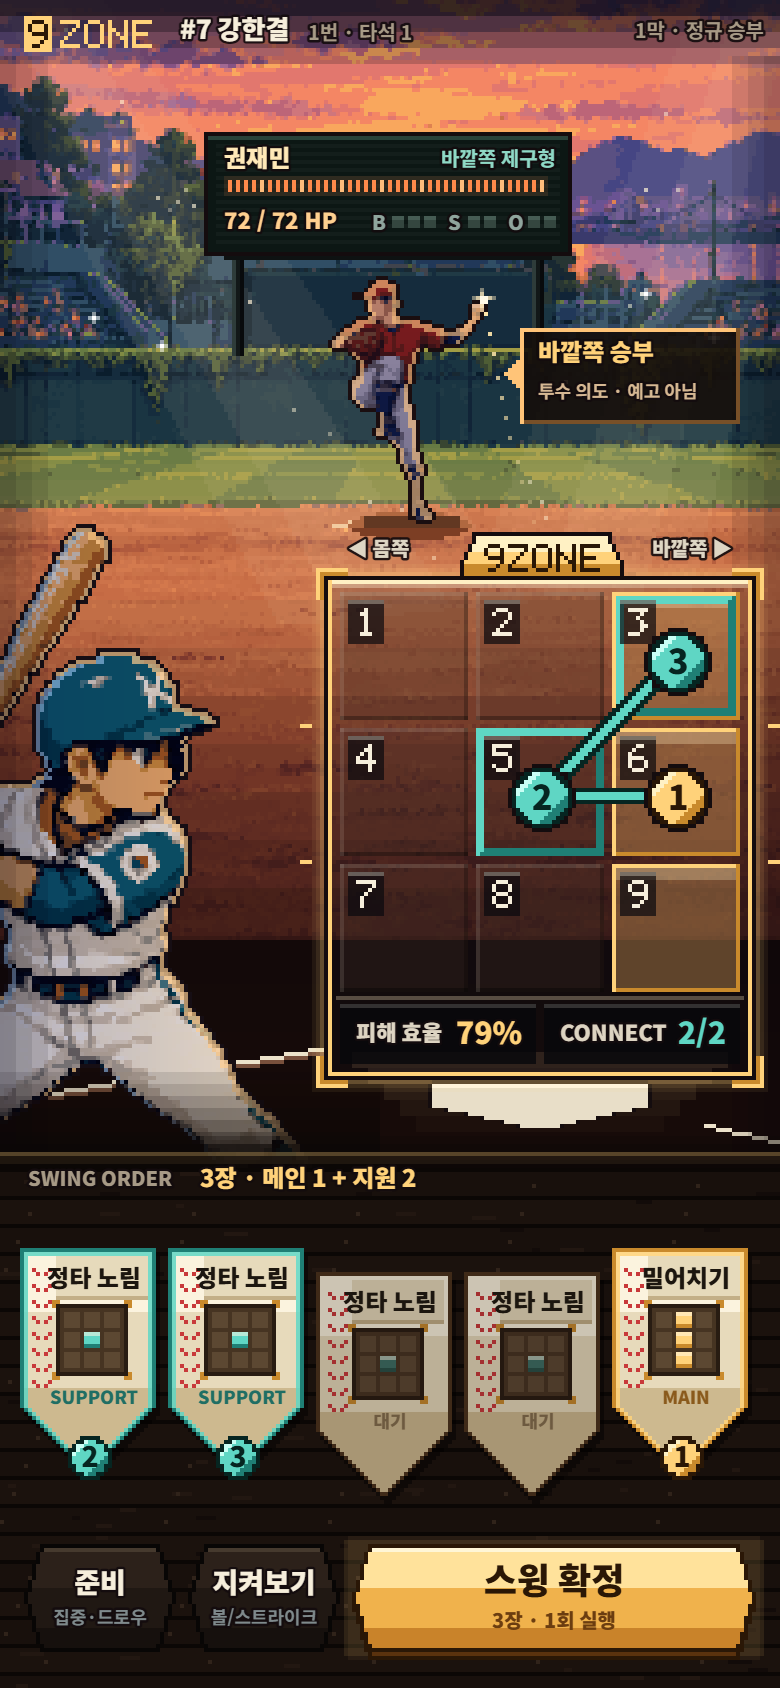
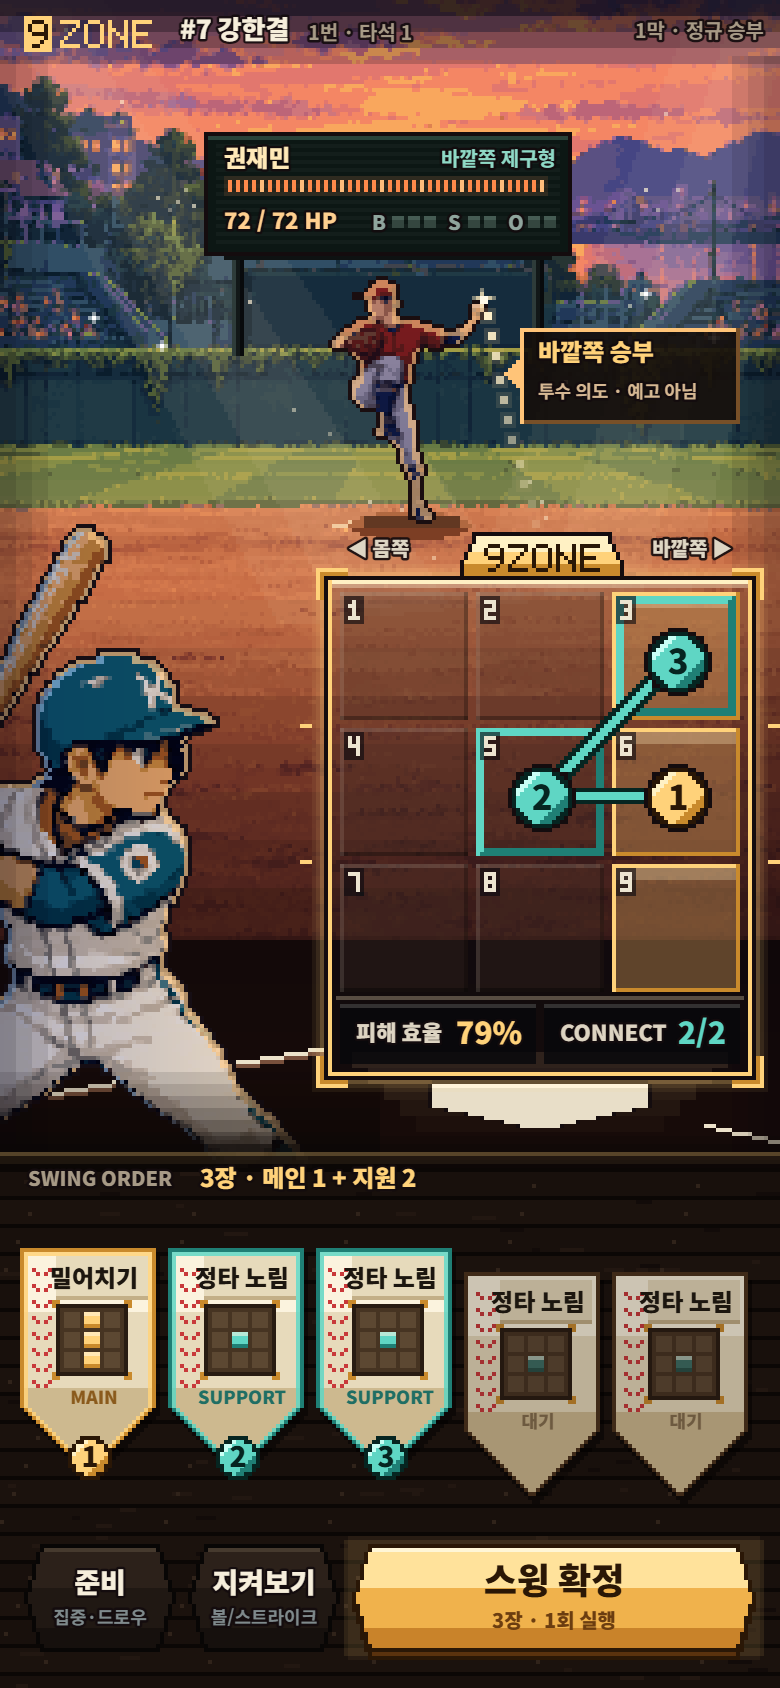
design(v12): LOOP 8 — second review: order, pitch line, quieter numerals
- the hand reads in swing order: stacked cards 1-2-3 from the left, waiting
  cards after (display order only; the hand array is not a mechanic)
- the pitch path is a brighter 2px seam of light with a halo from the
  release hand toward the zone, still gone before it arrives (C5)
- cell coordinates shrink to 3x5 corner glyphs so the lit coverage leads;
  landscape and desktop zones get denser glass so the stands stop showing
  through the cells
- landscape: one continuous floor shade and edge falloff, a shorter swing
  button with plate thickness; desktop batter gets a stronger contact shadow

Second independent review before this loop: 6 pass / 5 weak / 1 fail (up
from 3 / 6 / 3). The remaining fail, actor vs stadium pixel density, needs
re-authored actor art. All three captures read directly.

diff --git a/docs/design/v12/gm/parts.js b/docs/design/v12/gm/parts.js
@@ -56,7 +56,8 @@ P.pitcher=({fx,fy,h,path})=>{const w=Math.round(443*h/680),s=h/62;
   const x=fx-Math.round(w/2),y=fy-h;K.blit(img,x,y);
   const bx=x+Math.round(38*s),by=y+Math.round(5*s);rect(bx,by,2,2,[255,250,232]);
   for(const [dx,dy,a] of [[-1,0,.8],[2,0,.8],[0,-1,.8],[0,2,.8],[-2,0,.45],[3,0,.45],[0,-2,.45],[0,3,.45]])px(bx+dx,by+dy,[255,236,190],a);
-  if(path){const [tx,ty]=path;for(let i=0;i<24;i+=2){const t=i/23;px(Math.round(bx+1+(tx-bx)*t+t*t*6),Math.round(by+4+(ty-by)*t),[255,230,170],1-t*.9)}}
+  if(path){const [tx,ty]=path;for(let i=0;i<24;i+=2){const t=i/23,qx=Math.round(bx+1+(tx-bx)*t+t*t*6),qy=Math.round(by+4+(ty-by)*t),a=1-t*.95;
+    K.rect(qx-1,qy-1,4,4,[255,214,150],a*.18);K.rect(qx,qy,2,2,[255,240,200],a)}}                      // seams of light, gone before the zone (C5)
   return {x,y,w,h,ball:[bx,by]};
 };
 P.batter=({x,y,h})=>{const w=Math.round(509*h/730);
@@ -72,11 +73,11 @@ P.intent=(I,{pointer='left'}={})=>{
 };
 
 // 4. 9ZONE — the signature object. cell size sets the whole device.
-P.zone=({x,y,cell=32,gap=2,plate=true})=>{const S=P.S,g=3*cell+2*gap,Z={x,y,w:g+6,h:g+6+18},G={x:x+3,y:y+3};
+P.zone=({x,y,cell=32,gap=2,plate=true,glass=1})=>{const S=P.S,g=3*cell+2*gap,Z={x,y,w:g+6,h:g+6+18},G={x:x+3,y:y+3};
   if(plate){for(let j=0;j<20;j+=4)K.wash(Z.x+6+j,Z.y+Z.h+j-6,Z.w-12-2*j,4,[255,214,150],.14*(1-j/20));
     const pw=Math.round(Z.w*.51),x0=Z.x+Math.round((Z.w-pw)/2),y0=Z.y+Z.h+2;rect(x0,y0-1,pw,1,C.ink);
     for(let j=0;j<11;j++){const k=j<5?0:Math.round((j-5)*pw/12.3);rect(x0+k,y0+j,pw-2*k,1,j===0?[255,250,236]:[232,222,200]);px(x0+k-1,y0+j,C.ink);px(x0+pw-k,y0+j,C.ink)}}
-  rect(Z.x,Z.y,Z.w,Z.h,[12,20,34],.16);
+  rect(Z.x,Z.y,Z.w,Z.h,[12,20,34],.16*glass);
   for(let r=2;r<=4;r++){const a=[0,0,.34,.16,.07][r];K.wash(Z.x-r,Z.y-r,Z.w+2*r,1,C.gold,a);K.wash(Z.x-r,Z.y+Z.h+r-1,Z.w+2*r,1,C.gold,a);
     K.wash(Z.x-r,Z.y-r+1,1,Z.h+2*r-2,C.gold,a);K.wash(Z.x+Z.w+r-1,Z.y-r+1,1,Z.h+2*r-2,C.gold,a)}
   rect(Z.x-1,Z.y-1,Z.w+2,1,C.ink);rect(Z.x-1,Z.y+Z.h,Z.w+2,1,C.ink);rect(Z.x-1,Z.y,1,Z.h,C.ink);rect(Z.x+Z.w,Z.y,1,Z.h,C.ink);
@@ -91,14 +92,14 @@ P.zone=({x,y,cell=32,gap=2,plate=true})=>{const S=P.S,g=3*cell+2*gap,Z={x,y,w:g+
   const main=new Set(S.coverage.main),sup=new Set(S.coverage.supports.flatMap(v=>v.cells));
   const cellXY=z=>[G.x+(z%3)*(cell+gap),G.y+Math.floor(z/3)*(cell+gap)],c=cell;
   for(let z=0;z<9;z++){const [cx,cy]=cellXY(z),sh=S.read[z].shade;
-    rect(cx,cy,c,c,[10,16,28],.2);
+    rect(cx,cy,c,c,[10,16,28],Math.min(.8,.2*glass));
     if(sh)K.wash(cx,cy,c,c,C.ember,[0,.07,.17,.29][sh]);                                  // read shade: level 0 = 3 shades
     rect(cx,cy,c,1,[246,238,219],.14);rect(cx,cy+c-1,c,1,[0,0,0],.3);rect(cx,cy,1,c,[246,238,219],.12);rect(cx+c-1,cy,1,c,[0,0,0],.25);
     if(main.has(z)){K.wash(cx,cy,c,c,C.gold,.2);K.wash(cx+1,cy+1,c-2,3,C.goldHi,.28);rect(cx,cy,c,1,C.gold);rect(cx,cy+c-1,c,1,C.goldLo);rect(cx,cy,1,c,C.gold);rect(cx+c-1,cy,1,c,C.goldLo)}
     if(sup.has(z)){const o=main.has(z)?1:0;for(const k of [o,o+1]){rect(cx+k,cy+k,c-2*k,1,C.teal);rect(cx+k,cy+c-1-k,c-2*k,1,C.tealLo);rect(cx+k,cy+k,1,c-2*k,C.teal);rect(cx+c-1-k,cy+k,1,c-2*k,C.tealLo)}}
-    rect(cx+2,cy+2,9,11,[8,8,14],.7);rect(cx+2,cy+2,9,1,[246,238,219],.35);glyphs(String(z+1),cx+4,cy+4,[246,238,219]);
+    rect(cx+1,cy+1,5,7,[8,8,14],.62);K.glyphs3(String(z+1),cx+2,cy+2,[236,228,208]);          // small coordinate glyph: coverage leads
   }
-  const nudge=c<30?2:0,cc=z=>{const [cx,cy]=cellXY(z);return [cx+Math.floor(c/2)+nudge,cy+Math.floor(c/2)+1+nudge]}; // clear the coordinate badge in small cells
+  const nudge=0,cc=z=>{const [cx,cy]=cellXY(z);return [cx+Math.floor(c/2)+nudge,cy+Math.floor(c/2)+1+nudge]}; // clear the coordinate badge in small cells
   for(const l of S.links){const [a,b]=cc(l.fromZone),[e,f]=cc(l.toZone);line(a,b,e,f,C.tealInk,4);line(a,b,e,f,l.connected?C.teal:[140,140,140],2)}
   for(const st of S.steps){const [tx,ty]=cc(st.aimZone);disc(tx,ty,8,[255,248,230],[255,248,230],[255,248,230],C.ink);
     if(st.main)disc(tx,ty,7,C.goldHi,C.gold,C.goldLo,C.goldInk);else disc(tx,ty,7,C.tealHi,C.teal,C.tealLo,C.tealInk)}
@@ -134,6 +135,8 @@ P.card=(h,x,y,{w=34,hh=52}={})=>{const st=P.stackOf[h.id];y-=st?6:0;
   text(st?(st.main?'MAIN':'SUPPORT'):'대기',x*2+w+3,y*2+70,{size:9,weight:900,color:st?(st.main?[138,90,28]:[31,110,100]):[109,90,64],align:'center',ring:false});
   if(st)text(String(st.order),cx*2+1,cy*2-7,{size:14,weight:900,color:st.main?C.goldInk:C.tealInk,align:'center',ring:false});
 };
+// the hand reads in swing order: stacked cards 1→2→3 from the left, waiting cards after (display only)
+P.handOrdered=()=>[...P.S.hand].sort((a,b)=>(P.stackOf[a.id]?.order||9)-(P.stackOf[b.id]?.order||9));
 P.handLabel=(x,y)=>{const S=P.S;text('SWING ORDER',x*2,y*2,{size:10,weight:800,color:C.dim});
   text(S.cardCount+'장 · 메인 1 + 지원 '+(S.cardCount-1),x*2+86,y*2-1,{size:12,weight:900,color:C.gold})};
 

diff --git a/docs/design/v12/gm/scene-landscape.js b/docs/design/v12/gm/scene-landscape.js
@@ -7,7 +7,7 @@ const S=await GM.setup(),K=PK,C=GM.C,{rect,text}=K;
 // 1. space — same stadium scale as portrait, wider crop
 GM.stadium({crop:[372,206,1300,600],w:422,h:195});
 for(let k=0;k<4;k++)K.wash(0,106+k*4,422,32-k*8,[255,196,140],.035);
-GM.shade(0,142,236,53,6,[24,11,9],.8);
+GM.shade(0,142,422,53,6,[24,11,9],.8);
 GM.shafts([[[[-14,-6],[24,-6],[150,150],[84,156]],.07],[[[-2,-6],[14,-6],[130,150],[100,152]],.075]]);
 GM.dust(18,(t,r)=>[Math.round(6+t*120+r*16),Math.round(t*140+6)]);
 GM.flashes([[28,76],[196,70],[60,82]]);
@@ -16,31 +16,32 @@ GM.flashes([[28,76],[196,70],[60,82]]);
 GM.board({x:106,y:22,w:90,h:29});
 GM.pitcher({fx:151,fy:133,h:62,path:[112,158]});
 GM.batter({x:-34,y:36,h:200});
-for(let k=0;k<6;k++)K.wash(0,165+k*5,236,5,[12,7,6],(k+1)/6*.85);
-GM.edges(14,181,236);
+for(let k=0;k<6;k++)K.wash(0,165+k*5,422,5,[12,7,6],(k+1)/6*.85);
+GM.edges(14,181,1000);
 GM.intent({x:176,y:92,w:55,h:24});
 
 // full bleed: no panel. The stadium runs edge to edge; a stepped scrim deepens toward the right
 // so the command side stays legible, and the hand docks on dirt that falls into shade.
-for(let k=0;k<26;k++)K.wash(214+k*8,0,8,195,[10,8,14],.05+k*.024);
-GM.shade(236,138,186,57,6,[16,9,8],.72);
+for(let k=0;k<30;k++)K.wash(190+k*8,0,8,195,[10,8,14],k*.022);
+
 
 // 4. 9ZONE — top-right, the plate falls away because the zone is now the command device
-GM.zone({x:246,y:26,cell:27,plate:false});
+GM.zone({x:246,y:26,cell:27,plate:false,glass:2.2});
 
 // actions stacked beside the zone
 const bx=346,dark=[[44,33,26],[32,24,19],[22,16,13]];
 K.hexButton(bx,24,70,22,dark,[8,6,5],[70,58,46]);K.hexButton(bx,50,70,22,dark,[8,6,5],[70,58,46]);
-K.wash(bx-2,79,74,58,C.gold,.10);K.wash(bx-1,78,72,60,C.gold,.06);
-K.hexButton(bx,80,70,56,[[255,226,155],[240,178,76],[201,131,42]],C.goldInk,[255,246,214]);
+K.wash(bx-2,79,74,46,C.gold,.10);K.wash(bx-1,78,72,48,C.gold,.06);
+K.hexButton(bx,82,70,44,[[120,70,20],[120,70,20],[90,50,14]],C.goldInk);
+K.hexButton(bx,80,70,44,[[255,226,155],[240,178,76],[201,131,42]],C.goldInk,[255,246,214]);
 text('준비',(bx+35)*2,24*2+8,{size:13,weight:900,align:'center'});text('집중·드로우',(bx+35)*2,24*2+26,{size:9,weight:700,color:[127,138,140],align:'center'});
 text('지켜보기',(bx+35)*2,50*2+8,{size:13,weight:900,align:'center'});text('볼/스트라이크',(bx+35)*2,50*2+26,{size:9,weight:700,color:[127,138,140],align:'center'});
-text('스윙',(bx+35)*2,80*2+22,{size:20,weight:900,color:C.goldInk,align:'center',ring:false});
-text('확정',(bx+35)*2,80*2+46,{size:20,weight:900,color:C.goldInk,align:'center',ring:false});
-text(S.cardCount+'장 · 1회',(bx+35)*2,80*2+76,{size:10,weight:800,color:[107,61,16],align:'center',ring:false});
+text('스윙',(bx+35)*2,80*2+14,{size:18,weight:900,color:C.goldInk,align:'center',ring:false});
+text('확정',(bx+35)*2,80*2+36,{size:18,weight:900,color:C.goldInk,align:'center',ring:false});
+text(S.cardCount+'장 · 1회',(bx+35)*2,80*2+62,{size:10,weight:800,color:[107,61,16],align:'center',ring:false});
 
 // 5. hand along the bottom of the panel
-S.hand.forEach((h,i)=>GM.card(h,240+i*36,142,{w:32}));
+GM.handOrdered().forEach((h,i)=>GM.card(h,240+i*36,141,{w:32}));
 
 GM.topbar(422);
 GM.done();

diff --git a/docs/design/v12/gm/scene-desktop.js b/docs/design/v12/gm/scene-desktop.js
@@ -20,20 +20,20 @@ K.line(4,272,150,262,[236,226,202]);K.line(4,273,150,263,[120,80,60]);
 // 2–3. opponent and duel
 GM.board({x:195,y:76,w:90,h:29},{posts:14});
 GM.pitcher({fx:240,fy:177,h:56,path:[276,226]});
-for(let r=0;r<3;r++)K.wash(18+r*6,280+r,110-r*12,6-r*2,[10,4,2],.28);                        // contact shadow
+for(let r=0;r<4;r++)K.wash(14+r*8,279+r,122-r*16,7-r*2,[10,4,2],.3);K.dither(20,277,110,4,[10,4,2],.35);                        // contact shadow
 GM.batter({x:22,y:118,h:168});
 GM.edges(14,236,480);
 GM.intent({x:150,y:120,w:55,h:24},{pointer:'right'});
 
 // 4. 9ZONE on the plate, right of the duel line
-GM.zone({x:318,y:96,cell:34});
+GM.zone({x:318,y:96,cell:34,glass:2});
 
 // 5. hand + actions on the dugout rail along the bottom
 for(let k=0;k<4;k++)K.wash(150,228+k*2,330,2,[12,7,6],.25+k*.2);
 GM.planks(150,236,330,64);
 K.rect(150,235,330,1,[255,210,122],.3);
 GM.handLabel(158,229);
-S.hand.forEach((h,i)=>GM.card(h,158+i*37,247,{w:34}));
+GM.handOrdered().forEach((h,i)=>GM.card(h,158+i*37,247,{w:34}));
 GM.buttons({x:348,y:258,small:34,gapX:3,goW:56});
 
 GM.topbar(480);

diff --git a/docs/design/v12/gm/pixel-kit.js b/docs/design/v12/gm/pixel-kit.js
@@ -96,6 +96,10 @@ const F={
 K.glyphs=(str,x,y,c,scale=1)=>{let cx=x;for(const ch of str){const g=F[ch]||F[' '];
   for(let j=0;j<7;j++)for(let i=0;i<5;i++)if(g[j*5+i]==='#')K.rect(cx+i*scale,y+j*scale,scale,scale,c);cx+=6*scale}return cx-x-scale};
 K.glyphW=(s,scale=1)=>s.length*6*scale-scale;
+// 3×5 numerals for small corner badges
+const F3={'1':'.#.##..#..#.###','2':'###..#####..###','3':'###..#.##..####','4':'#.##.####..#..#','5':'####..###..####',
+  '6':'####..####.####','7':'###..#..#..#..#','8':'####.#####.####','9':'####.####..####'};
+K.glyphs3=(str,x,y,c)=>{let cx=x;for(const ch of str){const g=F3[ch];if(g)for(let j=0;j<5;j++)for(let i=0;i<3;i++)if(g[j*3+i]==='#')K.rect(cx+i,y+j,1,1,c);cx+=4}};
 
 // Hangul on a device-resolution layer (2 device px per CSS px): readable at 9–12px, with a hard
 // ink outline so it sits on the pixel world like engraved UI rather than floating web text.

diff --git a/docs/design/v12/gm/scene.js b/docs/design/v12/gm/scene.js
@@ -29,7 +29,7 @@ GM.zone({x:82,y:145,cell:32});
 // 5. hand
 K.rect(0,288,195,1,[255,210,122],.3);K.wash(0,289,195,2,[255,210,122],.08);
 GM.handLabel(7,292);
-S.hand.forEach((h,i)=>GM.card(h,5+i*37,318,{hh:56}));
+GM.handOrdered().forEach((h,i)=>GM.card(h,5+i*37,318,{hh:56}));
 
 // 6. execute + top strip
 GM.buttons({x:6,y:386,goW:101});
